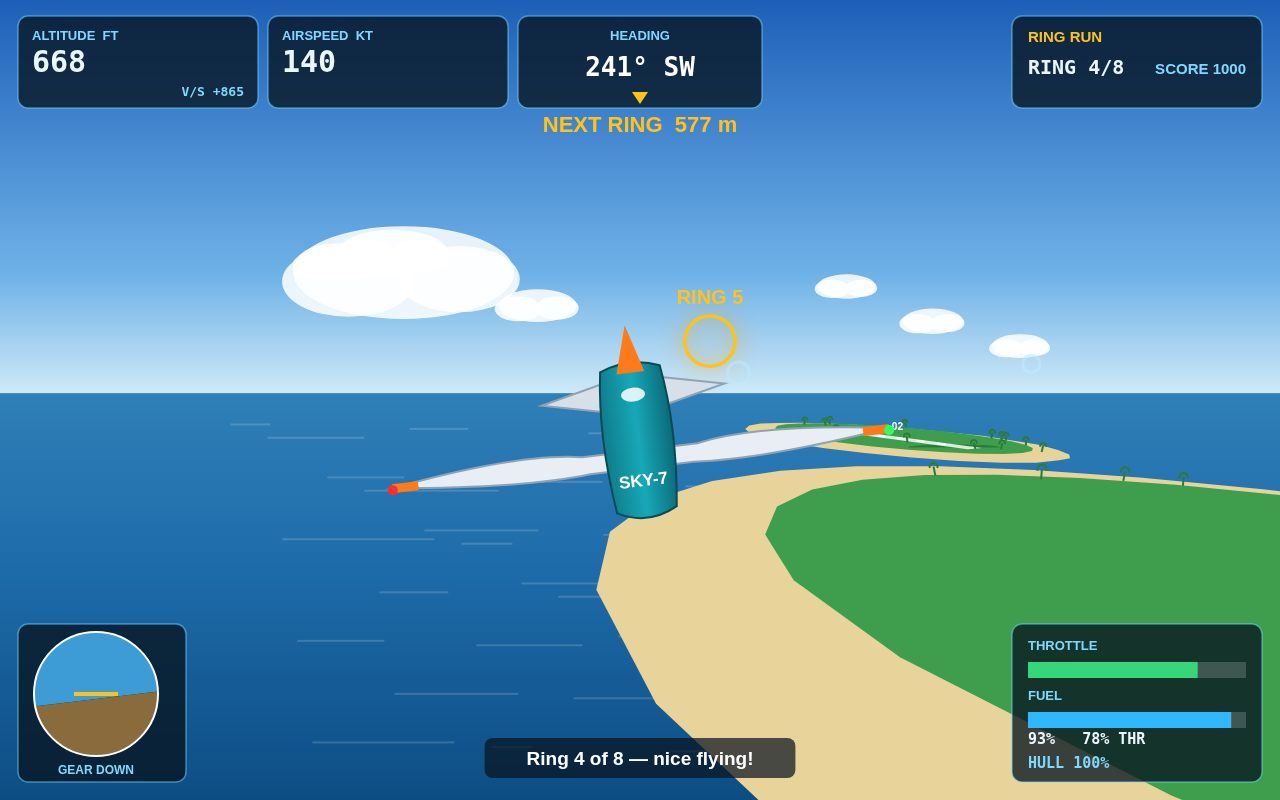
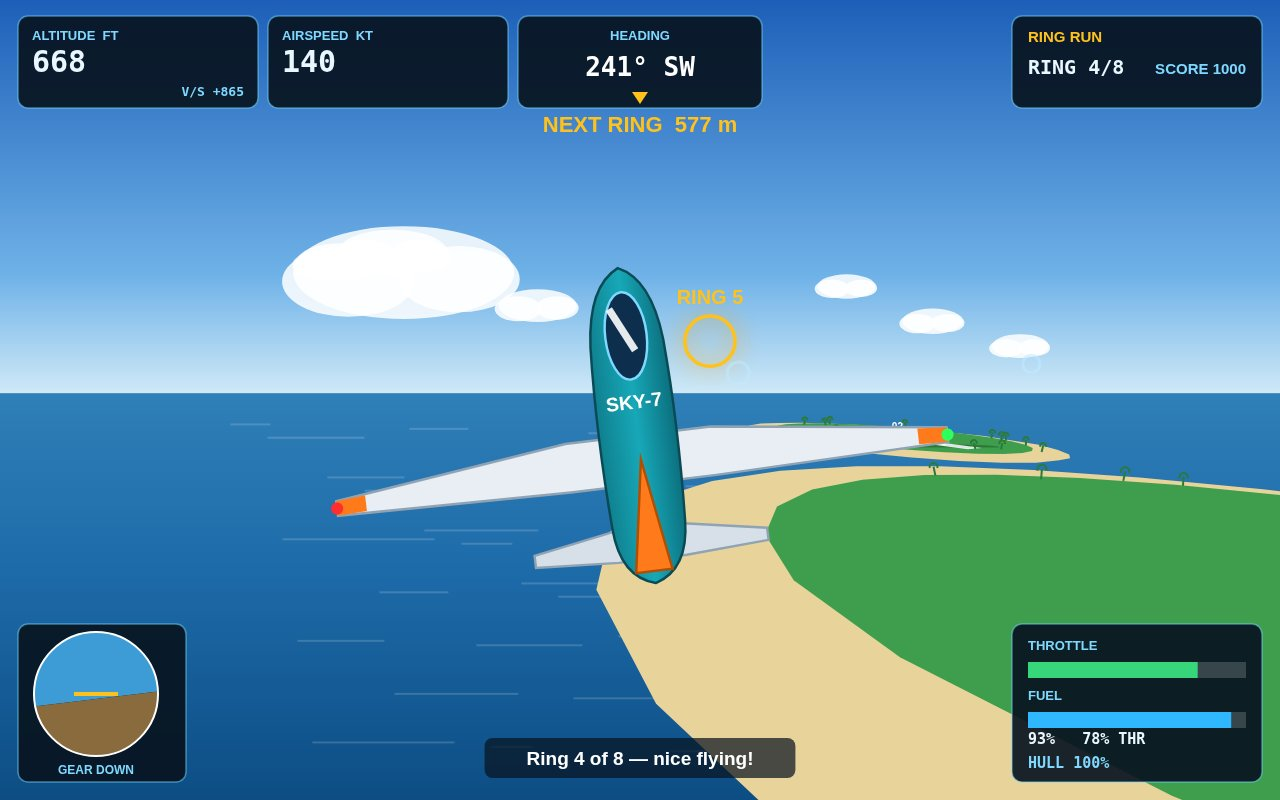
R2: readable plane silhouette — longer slim fuselage, dark glass canopy, tall swept tail fin, tapered wings, larger plane, closer cover ring

diff --git a/game/src/render.js b/game/src/render.js
@@ -282,85 +282,122 @@ export function createRenderer(canvas) {
     }
   }
 
-  /** The Skylark, big in the frame, banking with the stick. */
+  /** The Skylark, big in the frame, banking with the stick. Rear view from
+   *  above: nose up-screen, tail down-screen. The silhouette has to read as a
+   *  plane in one glance — long slim fuselage, dark glass canopy on the nose,
+   *  a tall swept tail fin at the rear, tapered wings, small tailplane. */
   function drawPlane(state) {
     const cx = VIEW_W / 2;
     const cy = VIEW_H * 0.56 + state.pitch * 1.2;
     ctx.save();
     ctx.translate(cx, cy);
     ctx.rotate((-state.roll * Math.PI) / 180);
-    // Wings.
+    ctx.scale(1.22, 1.22);
+    // Main wings — tapered and swept slightly back: wide chord at the root,
+    // narrow at the tips, so the planform reads as wings, not a plank.
     ctx.fillStyle = '#e8eef4';
     ctx.strokeStyle = '#8fa3b5';
     ctx.lineWidth = 2;
     ctx.beginPath();
-    ctx.moveTo(-250, 6);
-    ctx.quadraticCurveTo(-120, -14, -58, -2);
-    ctx.lineTo(58, -2);
-    ctx.quadraticCurveTo(120, -14, 250, 6);
-    ctx.quadraticCurveTo(120, 22, 52, 16);
-    ctx.lineTo(-52, 16);
-    ctx.quadraticCurveTo(-120, 22, -250, 6);
+    ctx.moveTo(-252, 10);
+    ctx.lineTo(-60, -14);
+    ctx.lineTo(60, -14);
+    ctx.lineTo(252, 10);
+    ctx.lineTo(252, 22);
+    ctx.lineTo(60, 26);
+    ctx.lineTo(-60, 26);
+    ctx.lineTo(-252, 22);
     ctx.closePath();
     ctx.fill();
     ctx.stroke();
     // Orange wingtip stripes.
     ctx.fillStyle = '#ff7a1a';
-    ctx.fillRect(-250, 2, 26, 9);
-    ctx.fillRect(224, 2, 26, 9);
-    // Tailplane.
+    ctx.beginPath();
+    ctx.moveTo(-252, 10);
+    ctx.lineTo(-228, 8);
+    ctx.lineTo(-228, 21);
+    ctx.lineTo(-252, 22);
+    ctx.closePath();
+    ctx.fill();
+    ctx.beginPath();
+    ctx.moveTo(252, 10);
+    ctx.lineTo(228, 8);
+    ctx.lineTo(228, 21);
+    ctx.lineTo(252, 22);
+    ctx.closePath();
+    ctx.fill();
+    // Tailplane — small, clearly at the tail end, behind the main wings.
     ctx.fillStyle = '#d7e0e8';
     ctx.beginPath();
-    ctx.moveTo(-92, -58);
-    ctx.lineTo(-30, -72);
-    ctx.lineTo(30, -72);
-    ctx.lineTo(92, -58);
-    ctx.lineTo(30, -44);
-    ctx.lineTo(-30, -44);
+    ctx.moveTo(-96, 74);
+    ctx.lineTo(-28, 62);
+    ctx.lineTo(28, 62);
+    ctx.lineTo(96, 74);
+    ctx.lineTo(96, 84);
+    ctx.lineTo(28, 88);
+    ctx.lineTo(-28, 88);
+    ctx.lineTo(-96, 84);
     ctx.closePath();
     ctx.fill();
     ctx.stroke();
-    // Fuselage, seen from behind and above.
+    // Fuselage — long and slim now (was a short fat capsule): pointed nose,
+    // widest at the wing root, tapering to a rounded tail.
     const fus = ctx.createLinearGradient(-34, 0, 34, 0);
     fus.addColorStop(0, '#0f7d8c');
     fus.addColorStop(0.5, '#17a8b8');
     fus.addColorStop(1, '#0b6b7a');
     ctx.fillStyle = fus;
     ctx.beginPath();
-    ctx.moveTo(-30, -84);
-    ctx.quadraticCurveTo(-40, -20, -30, 58);
-    ctx.quadraticCurveTo(0, 74, 30, 58);
-    ctx.quadraticCurveTo(40, -20, 30, -84);
-    ctx.quadraticCurveTo(0, -96, -30, -84);
+    ctx.moveTo(0, -152);
+    ctx.quadraticCurveTo(-26, -140, -30, -90);
+    ctx.quadraticCurveTo(-34, -20, -30, 60);
+    ctx.quadraticCurveTo(-28, 100, 0, 108);
+    ctx.quadraticCurveTo(28, 100, 30, 60);
+    ctx.quadraticCurveTo(34, -20, 30, -90);
+    ctx.quadraticCurveTo(26, -140, 0, -152);
     ctx.closePath();
     ctx.fill();
     ctx.strokeStyle = '#0a4a55';
     ctx.stroke();
-    // Tail fin.
+    // Vertical tail fin — tall, swept, orange, at the rear: base at the tail,
+    // tip rising past the wing line toward the nose. The one-glance cue.
     ctx.fillStyle = '#ff7a1a';
+    ctx.strokeStyle = '#b34d00';
+    ctx.lineWidth = 2;
     ctx.beginPath();
-    ctx.moveTo(-14, -80);
-    ctx.lineTo(0, -128);
-    ctx.lineTo(14, -80);
+    ctx.moveTo(-15, 98);
+    ctx.lineTo(0, 6);
+    ctx.lineTo(15, 98);
     ctx.closePath();
     ctx.fill();
-    // Cockpit glint and registration.
-    ctx.fillStyle = 'rgba(255,255,255,0.85)';
+    ctx.stroke();
+    // Canopy — big dark glass teardrop on the nose half, with a white glint.
+    ctx.fillStyle = '#0d2f4d';
+    ctx.strokeStyle = '#7fd8ff';
+    ctx.lineWidth = 2;
     ctx.beginPath();
-    ctx.ellipse(0, -58, 12, 7, 0, 0, Math.PI * 2);
+    ctx.ellipse(0, -96, 17, 36, 0, 0, Math.PI * 2);
     ctx.fill();
+    ctx.stroke();
+    ctx.save();
+    ctx.translate(0, -96);
+    ctx.rotate(-0.45);
+    ctx.fillStyle = 'rgba(255,255,255,0.9)';
+    ctx.fillRect(-3, -26, 6, 40);
+    ctx.restore();
+    // Registration, moved to the nose so the fin owns the tail.
     ctx.fillStyle = '#ffffff';
-    ctx.font = 'bold 17px sans-serif';
+    ctx.font = 'bold 16px sans-serif';
     ctx.textAlign = 'center';
-    ctx.fillText('SKY-7', 0, 34);
+    ctx.fillText('SKY-7', 0, -36);
     // Nav lights.
     ctx.fillStyle = '#ff2d2d';
     ctx.beginPath();
-    ctx.arc(-250, 8, 5, 0, Math.PI * 2);
+    ctx.arc(-252, 16, 5, 0, Math.PI * 2);
     ctx.fill();
     ctx.fillStyle = '#2dff5e';
     ctx.beginPath();
-    ctx.arc(250, 8, 5, 0, Math.PI * 2);
+    ctx.arc(252, 16, 5, 0, Math.PI * 2);
     ctx.fill();
     ctx.restore();
   }

diff --git a/game/src/shots.js b/game/src/shots.js
@@ -103,7 +103,7 @@ export function stageShot(name, world) {
   flyFor(world, 8, (state) => {
     const ring = world.nextRing();
     if (!ring) return true;
-    return Math.hypot(state.x - ring.x, state.y - ring.y, state.z - ring.z) < 230;
+    return Math.hypot(state.x - ring.x, state.y - ring.y, state.z - ring.z) < 150;
   });
   return { screen: SCREENS.PLAY, best: world.state.score };
 }
